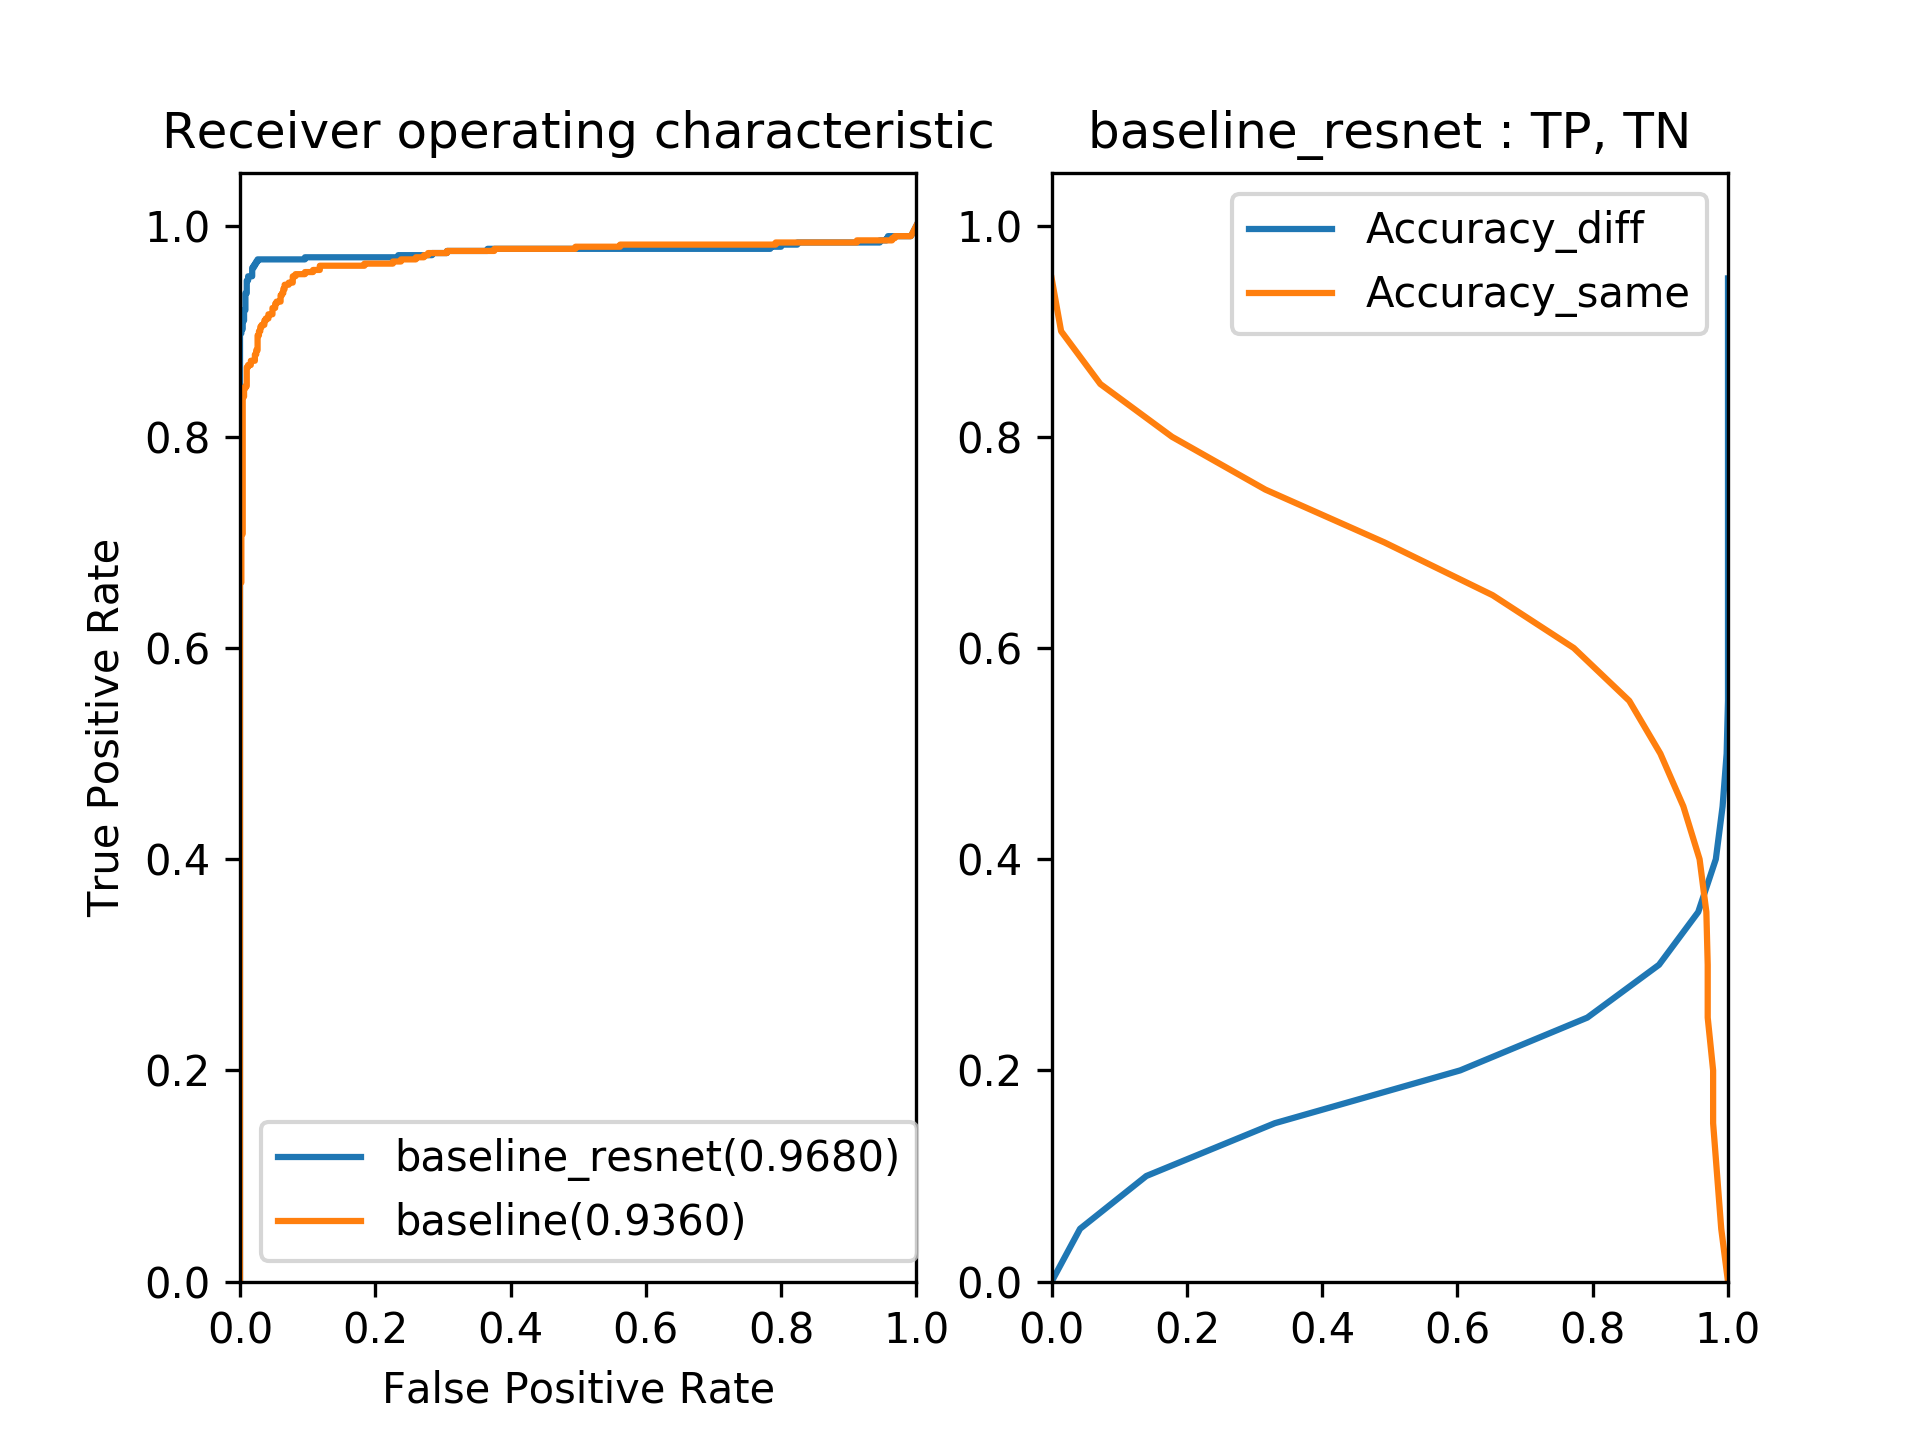
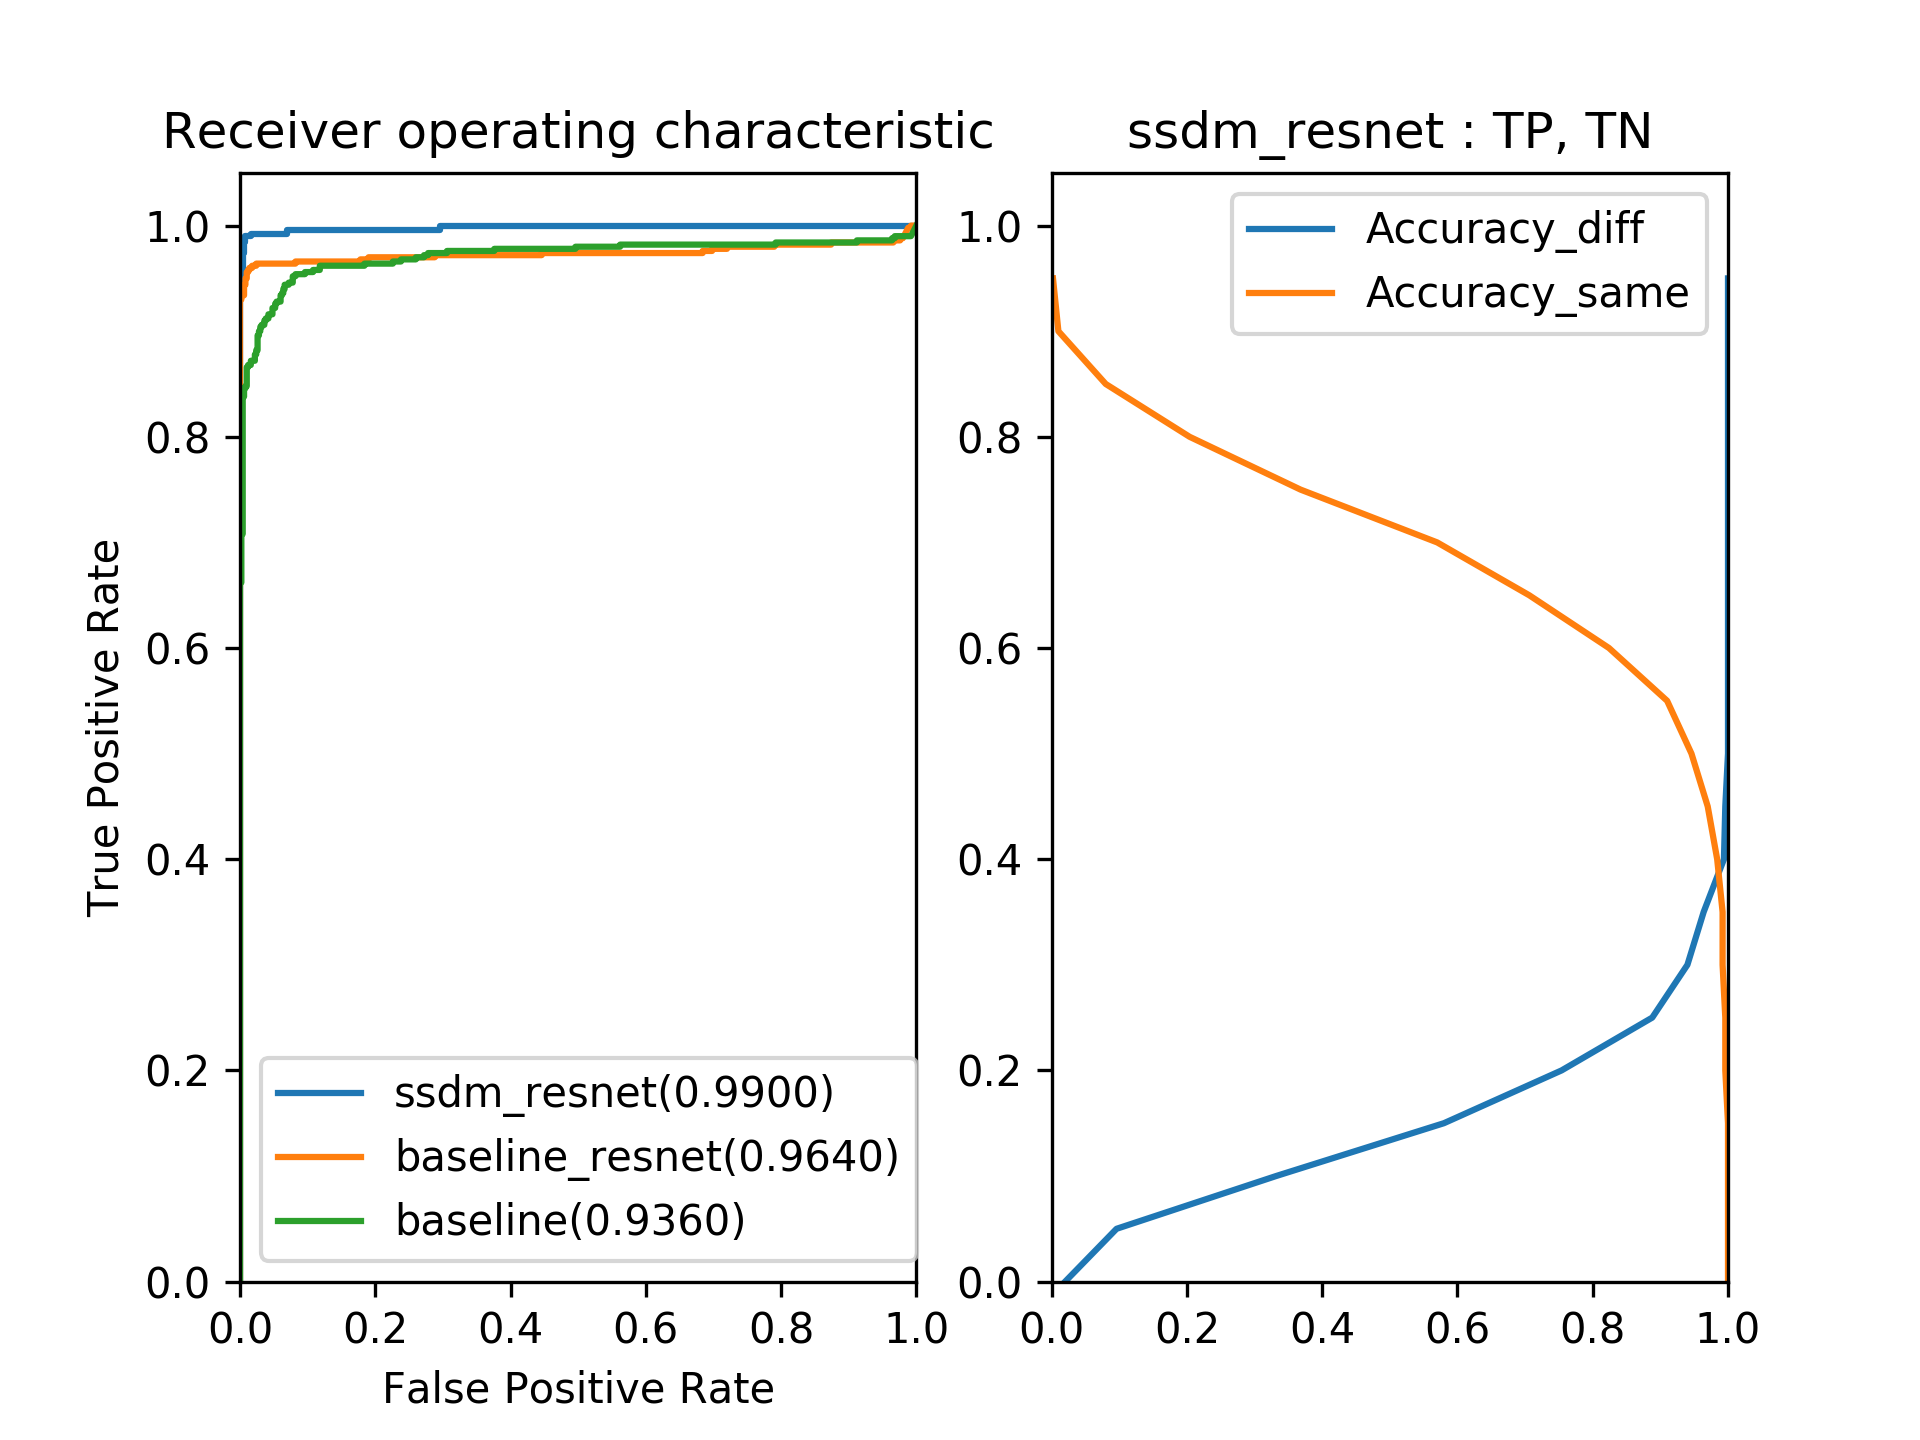
updated LFW test result : 0.99 achieved.

diff --git a/bin/face.py b/bin/face.py
@@ -178,7 +178,7 @@ class DeepFace:
         with open('db.pkl', 'wb') as f:
             pickle.dump(features, f, protocol=2)
 
-    def test_lfw(self, set='test', model='baseline_resnet', visualize=True):
+    def test_lfw(self, set='test', model='ssdm_resnet', visualize=True):
         if set is 'train':
             pairfile = 'pairsDevTrain.txt'
         else:
@@ -198,12 +198,17 @@ class DeepFace:
             else:
                 logger.warning('line should have 3 or 4 elements, line=%s' % line)
 
+        detec = FaceDetectorDlib.NAME
         if model == 'baseline':
             recog = FaceRecognizerVGG.NAME
             just_name = 'vgg'
         elif model == 'baseline_resnet':
             recog = FaceRecognizerResnet.NAME
             just_name = 'resnet'
+        elif model == 'ssdm_resnet':
+            recog = FaceRecognizerResnet.NAME
+            just_name = 'resnet'
+            detec = 'detector_ssd_mobilenet_v2'
         else:
             raise Exception('invalid model name=%s' % model)
 
@@ -220,8 +225,8 @@ class DeepFace:
             if img2 is None:
                 logger.warning('image not read, path=%s' % img2_path)
 
-            result1 = self.run(image=img1, recognizer=recog, visualize=False)
-            result2 = self.run(image=img2, recognizer=recog, visualize=False)
+            result1 = self.run(image=img1, detector=detec, recognizer=recog, visualize=False)
+            result2 = self.run(image=img2, detector=detec, recognizer=recog, visualize=False)
 
             if len(result1) == 0:
                 logger.warning('face not detected, name=%s(%d)! %s(%d)' % (name1, idx1, name2, idx2))

diff --git a/README.md b/README.md
@@ -27,13 +27,14 @@ A baseline model use dlib face detection module to crop rois. Then they will be 
 
 ### LFW Dataset
 
-| Model                                 | Set        | 1-EER      | Accuracy |
-|---------------------------------------|------------|------------|----------|
-| VGG(Paper, No Embedding, Trained)     | Test       | 0.9673     |          |
-| VGG(Paper, Embedding, Trained)        | Test       | 0.9913     |          |
-|                                       |            |            |          |
-| VGG(no embedding, no training on lfw) | Test       | 0.9400     | 0.936    |
-| VGG2-Resnet(no training on lfw)       | Test       | 0.9680     | 0.949    |
+| Detector | Recognition Model | Description                    | Set        | 1-EER      | Accuracy |
+|----------|-------------------|--------------------------------|------------|------------|----------|
+|          | VGG               | Paper, No Embedding, Trained   | Test       | 0.9673     |          |
+|          | VGG               | Paper, Embedding, Trained      | Test       | 0.9913     |          |
+|          |                   |                                |            |            |          |
+| dlib     | VGG               | no embedding, no training on lfw | Test       | 0.9400     | 0.936    |
+| dlib     | VGG2-Resnet       | no training on lfw             | Test       | 0.9680     | 0.949    |
+| SSD<br/>Mobilenet-v2 | VGG2-Resnet       | no training on lfw              | Test       | 0.990     | 0.973    |
 
 ## Install
 
